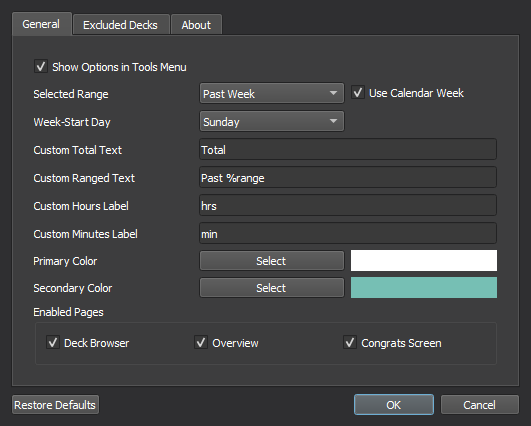
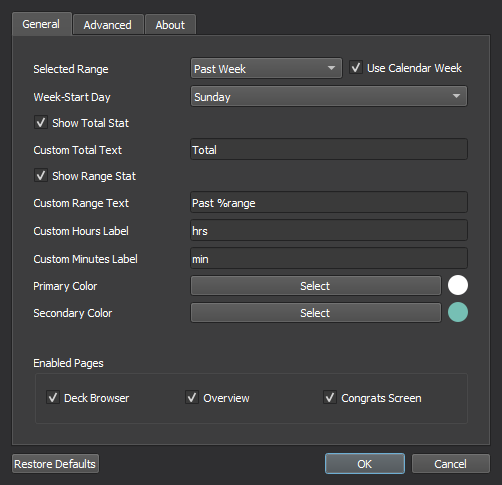
Readme and licensing updates

diff --git a/__init__.py b/__init__.py
@@ -1,6 +1,6 @@
 """
 MIT License: Copyright (c) 2022 JustKoi (iamjustkoi) <https://github.com/iamjustkoi>
-Full license text available in "LICENSE" file, located in the add-on's root directory.
+Full license text available in the "LICENSE" file, packaged with the add-on.
 
 Shows total study time and a ranged amount of study time in Anki's main window.
 """

diff --git a/options.py b/options.py
@@ -1,6 +1,6 @@
 """
 MIT License: Copyright (c) 2022 JustKoi (iamjustkoi) <https://github.com/iamjustkoi>
-Full license text available in "LICENSE" file, located in the add-on's root directory.
+Full license text available in the "LICENSE" file, packaged with the add-on.
 """
 from __future__ import annotations
 

diff --git a/consts.py b/consts.py
@@ -1,6 +1,6 @@
 """
 MIT License: Copyright (c) 2022 JustKoi (iamjustkoi) <https://github.com/iamjustkoi>
-Full license text available in "LICENSE" file, located in the add-on's root directory.
+Full license text available in the "LICENSE" file, packaged with the add-on.
 """
 
 CURRENT_VERSION = '1.2.3b'

diff --git a/README.md b/README.md
@@ -1,5 +1,5 @@
-# Study Time Stats
-Adds some total and ranged study time statistics to Anki's main window.  
+# <p align="center"><img src="raw/stats_icon.svg"> Study Time Stats</p>
+<p align="center">Add some total study time and ranged study time statistics to Anki's main window!</p>  
 <p align="center"><img src=".github/main_ui.png"></p>
 
 ## Installation  
@@ -9,12 +9,12 @@ Or from Anki (Tools -> Add-ons -> Get Add-ons..)
 
 ## Options Menu  
 ### General
-These can be used to change the look/wording of the text and how the add-on should filter the total time studied.  
+These settings can be used to change the visibility, look, and text of the rendered stats, as well as how the add-on should filter the total review time.  
 <p align="center"><img src=".github/options_general.png"></p>
 
-### Excluded Decks
-Any decks added to this menu won't be considered when calculating how much time's been spent studying. It will also hide the UI on the selected deck's screens.  
-<p align="center"><img src=".github/options_excluded.png"></p>
+### Advanced
+These settings can change other UI options, whether the add-on should filter out or include deleted card reviews, and which decks it should consider when counting review time.
+<p align="center"><img src=".github/options_advanced.png"></p>
 
 ## Text Macros
 The add-on can also filter text in the custom labels input to show information based on what's set in the config (e.g. "Past %range" to "Past Week"). These can be used multiple times and will update whenever Anki's main window reloads.
@@ -33,5 +33,5 @@ Please post any issues or feedback you might have on [GitHub](https://github.com
 
 Wish you the best! -koi
 
+MIT License  
 ©2022 JustKoi (iamjustkoi)  
-Under the MIT License.  
